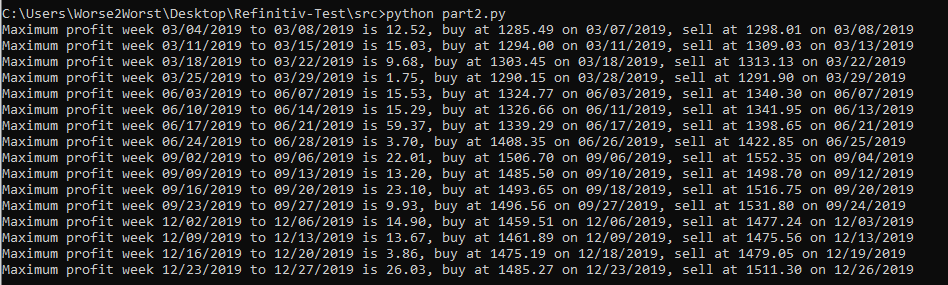
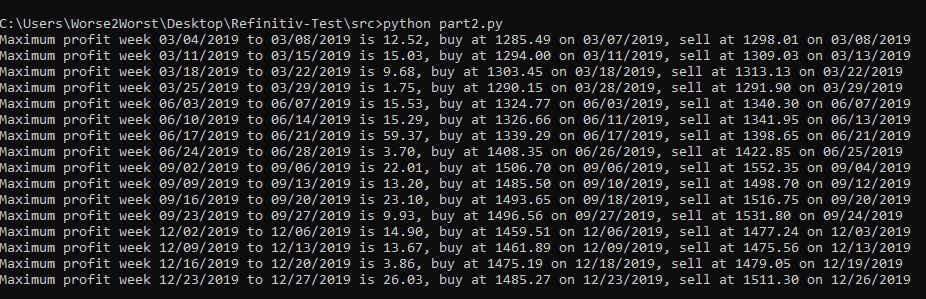
Fixing index issues and add unit tests(Not finished yet)

diff --git a/test/test.py b/test/test.py
@@ -1,0 +1,40 @@
+import unittest
+import sys
+import numpy as np
+
+sys.path.insert(0, '../src/')  # change path so that it can find the modules
+
+from part1 import excel_to_dataframes
+from part2 import find_max_profit_days, calculate, display_data
+
+dataframes, xlim = excel_to_dataframes()
+
+
+class TestPart1(unittest.TestCase):
+    # Verify that the %Daily Returns are correct
+    def test_daily_return_values(self):
+        for sheet_name, data in dataframes.items():
+            for index in range(0, len(data)):
+                price = data['Bid Close'][index]
+                daily_return = data['% Daily Return'][index]
+                date = data['Date'][index].date()
+                # The first day of a year has no daily return, since it has no previous day
+                if date.day == 1 and date.month == 1:
+                    self.assertTrue(np.isnan(daily_return), "The first day of the year doesn't has daily return.")
+                else:
+                    # Manually calculate the daily return as in the Refinitiv instructions
+                    previous_day_price = data['Bid Close'][index - 1]
+                    daily_return2 = ((price - previous_day_price) / previous_day_price) * 100
+                    self.assertTrue(np.isclose(daily_return, daily_return2),
+                                    "There might be some miscalculation of the daily returns.")
+
+
+class TestPart2(unittest.TestCase):
+    # Test calculate maximum profits for Silver Spot, January only
+    def test_calculate_silver_spot_january(self):
+        data = calculate(sheet='Silver Spot', months=[1])
+        display_data(data)
+
+
+if __name__ == '__main__':
+    unittest.main()

diff --git a/src/part1.py b/src/part1.py
@@ -16,7 +16,7 @@ if len(argv) == 2:
 # Read the Excel file and return a dictionary of {'sheet_name' -> Pandas data_frame from that sheet}
 # Note: The file is already sorted(desc.), but just sort it anyway to be sure, also sort by dates(asc.) for Part2
 # Note2: This function also compute the values of '% Daily Return' and add to the new column
-# Note3: Also return max_val and min_val for displaying
+# Note3: Also return limits of X-axis in graph for displaying
 def excel_to_dataframes(file_path=file_path):
     dataframes = {}
     headers = ['Date', 'Bid Close']
@@ -28,6 +28,7 @@ def excel_to_dataframes(file_path=file_path):
         dataframes[sheet_name] = pd.read_excel(file_path, sheet_name=sheet_name, names=headers,
                                                parse_dates=date_column).sort_values(by='Date', ascending=True)
         dataframes[sheet_name]['% Daily Return'] = dataframes[sheet_name]['Bid Close'].pct_change(1) * 100
+        dataframes[sheet_name] = dataframes[sheet_name].reset_index(drop=True)
         if min(dataframes[sheet_name]['% Daily Return'].dropna()) < min_val:
             min_val = min(dataframes[sheet_name]['% Daily Return'].dropna())
         if max(dataframes[sheet_name]['% Daily Return'].dropna()) > max_val:

diff --git a/src/part2.py b/src/part2.py
@@ -26,7 +26,9 @@ def find_max_profit_days(weekdays):
     return (buy_date, buy_price), (sell_date, sell_price), max_profit
 
 
-def calculate(sheet='Gold Spot', months=[3, 6, 9, 12]):
+def calculate(sheet='Gold Spot', months=None):
+    if not months:
+        months = [3, 6, 9, 12]
     df = dataframes[sheet]
     groups = df.groupby(pd.Grouper(key='Date', freq='W'))
     data = {}
